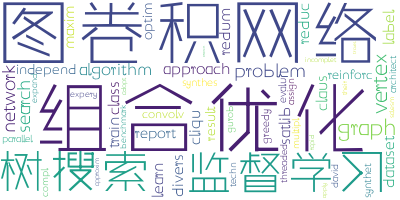
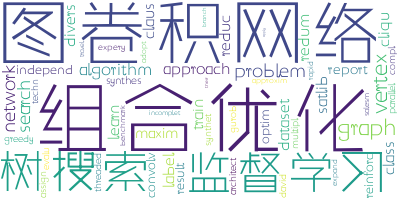
ad

diff --git a/groupmeeting.md b/groupmeeting.md
@@ -7,6 +7,34 @@ title: Group Meeting List
 # 2019 spring semester
 
 
+---
+
+- **Date:** 2019.04.08
+
+- **Reporter:** Xin Ruyue
+
+- **Title:** Modeling Relational Data with Graph Convolutional Networks
+
+- **Keywords:**
+<br>
+<img src="./img/keyword/R-GCN.txt.png" alt="">
+
+- **Abstract:** Knowledge graphs enable a wide variety of applications, in- cluding question answering and information retrieval. De- spite the great effort invested in their creation and mainte- nance, even the largest (e.g., Yago, DBPedia or Wikidata) remain incomplete. We introduce Relational Graph Convo- lutional Networks (R-GCNs) and apply them to two standard knowledge base completion tasks: Link prediction (recovery of missing facts, i.e. subject-predicate-object triples) and en- tity classification (recovery of missing entity attributes). R- GCNs are related to a recent class of neural networks operat- ing on graphs, and are developed specifically to deal with the highly multi-relational data characteristic of realistic knowl- edge bases. We demonstrate the effectiveness of R-GCNs as a stand-alone model for entity classification. We further show that factorization models for link prediction such as DistMult can be significantly improved by enriching them with an en- coder model to accumulate evidence over multiple inference steps in the relational graph, demonstrating a large improve- ment of 29.8% on FB15k-237 over a decoder-only baseline.
+
+- **Slide link:** http://210.31.72.204/f/487
+
+
+---
+
+- **Date:** 2019.04.01
+
+- **Reporter:** Wang Shuo
+
+- **Title:** GCN, GAT, GraphSAGE 框架回顾及其 PyG 复现
+
+- **Slide link:** http://210.31.72.204/f/488
+
+
 
 ---
 
